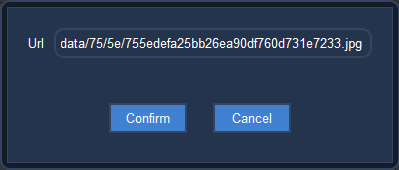
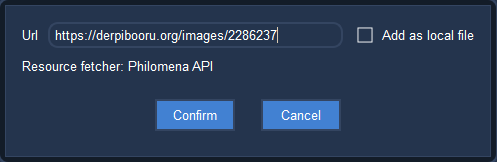
Updated changelog and help

Changed region(s): [[0.0, 0.0, 1.0, 1.0], [0.5113, 0.6173, 0.7218, 0.8025], [0.2707, 0.6173, 0.4812, 0.8025]]

diff --git a/resources/help/editor/addwebresource_button_help.html b/resources/help/editor/addwebresource_button_help.html
@@ -3,7 +3,7 @@
 
 <head>
   <meta charset="utf-8">
-  <title>Template</title>
+  <title>Add Online Resource</title>
   <meta name="description" content="">
   <meta name="viewport" content="width=device-width, initial-scale=1">
 
@@ -44,9 +44,20 @@
     <br>
 
     <p>Only image and video type <a href="qrc:/resources/help/editor/resources/resource_help.html">Online Resources</a>
-    can be handled, and the link must point to the image or video url directly. Links gated behind
-    logins will not work. These <a href="qrc:/resources/help/editor/resources/resource_help.html">Resources</a>
-    will <i>not</i> be saved on your disk and instead (down-)loaded into memory and displayed when needed.</p>
+    can be handled, and the link must either point to the image or video url directly or to a weblink with a
+    registered Resource Fetcher. Links gated behind logins will not work.<br>
+    Registered Resource Fetchers are currently:<br>
+    <ul>
+      <li><i>Philomena API</i>: Handles: Derpibooru, Tantabus, Manebooru, Twibooru and Furbooru links.</li>
+      <li><i>Danbooru API:</i>: Handles Danbooru links.</li>
+      <li><i>eXXX Danbooru API</i>:Handles: e621, e926 and e6ai links (static image links
+      will fall back to the generic fetcher).</li>
+    </ul> <br>
+    These <a href="qrc:/resources/help/editor/resources/resource_help.html">Resources</a>
+    will <i>not</i> be saved on your disk and instead (down-)loaded into memory and displayed when needed unless
+    "Add as local file" is checked. If checked you will be prompted to store it in a folder
+    in the project and the file will be downloaded. The source link will always be added and
+    the image / video will possibly be tagged with the artist.</p>
 
     <br>
 